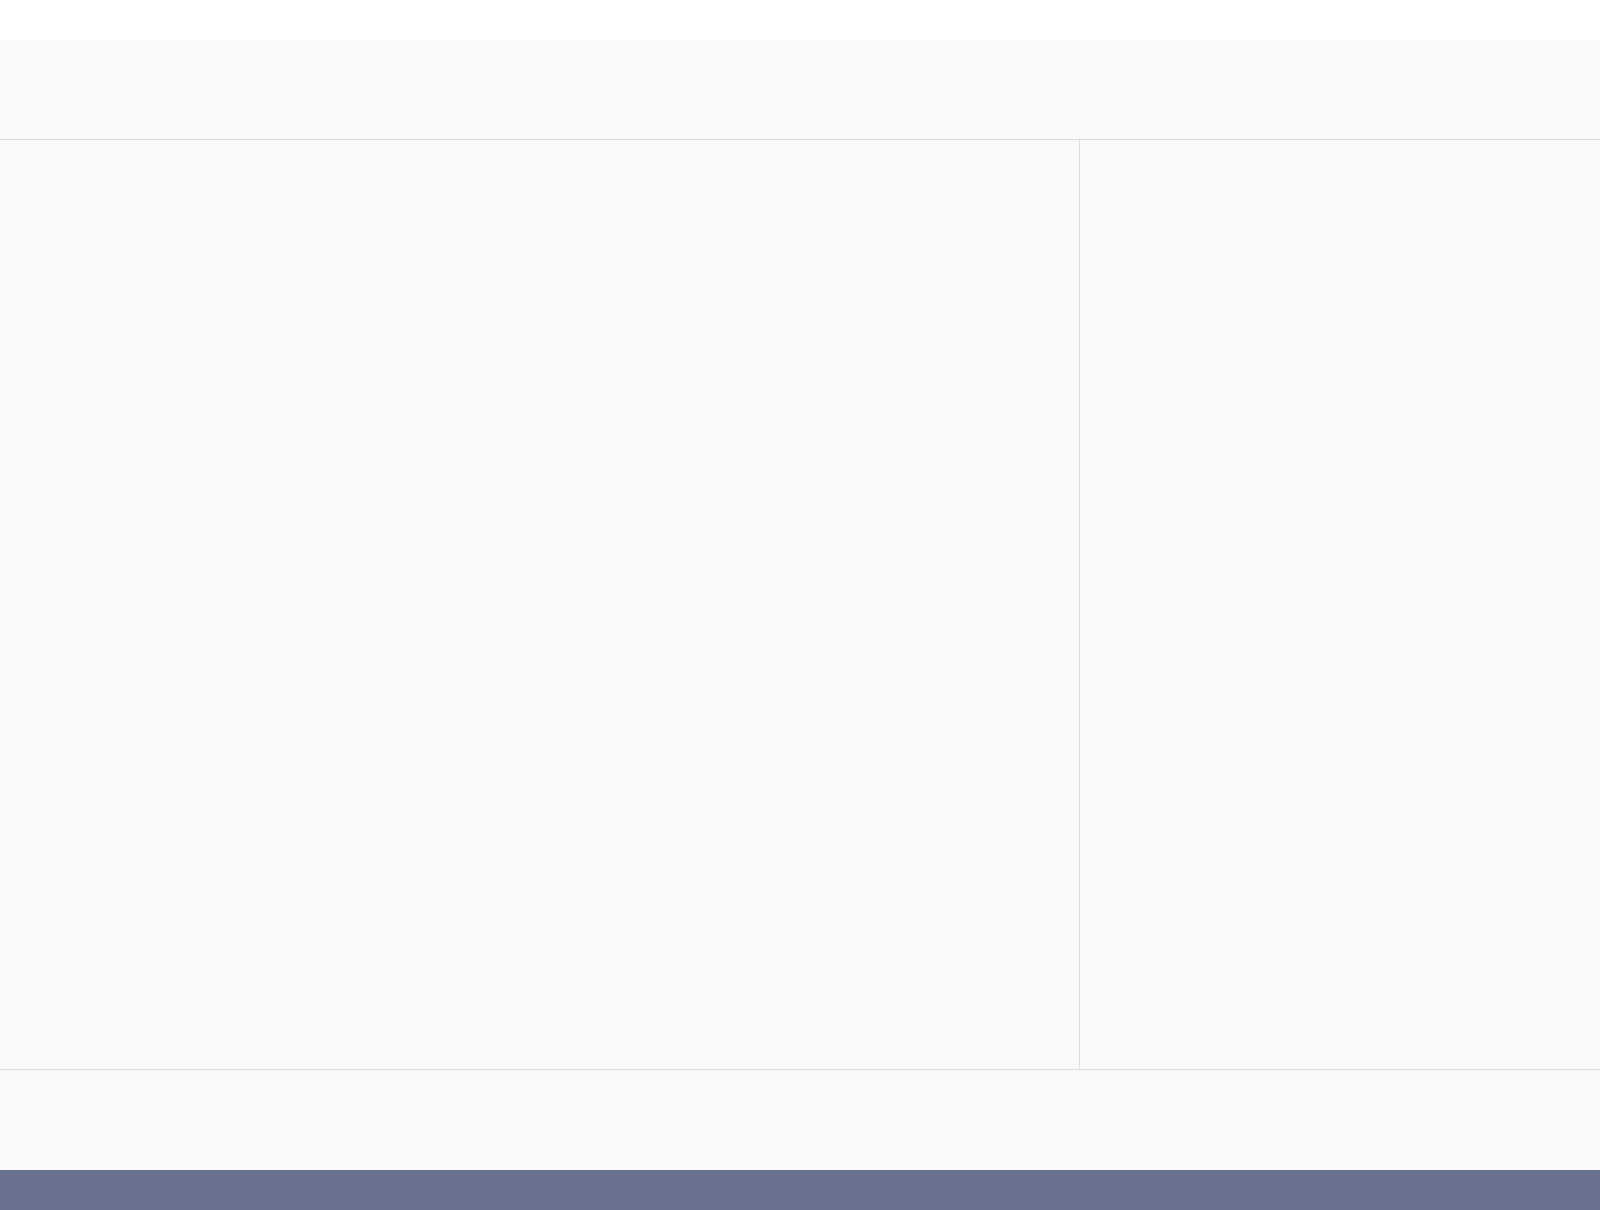
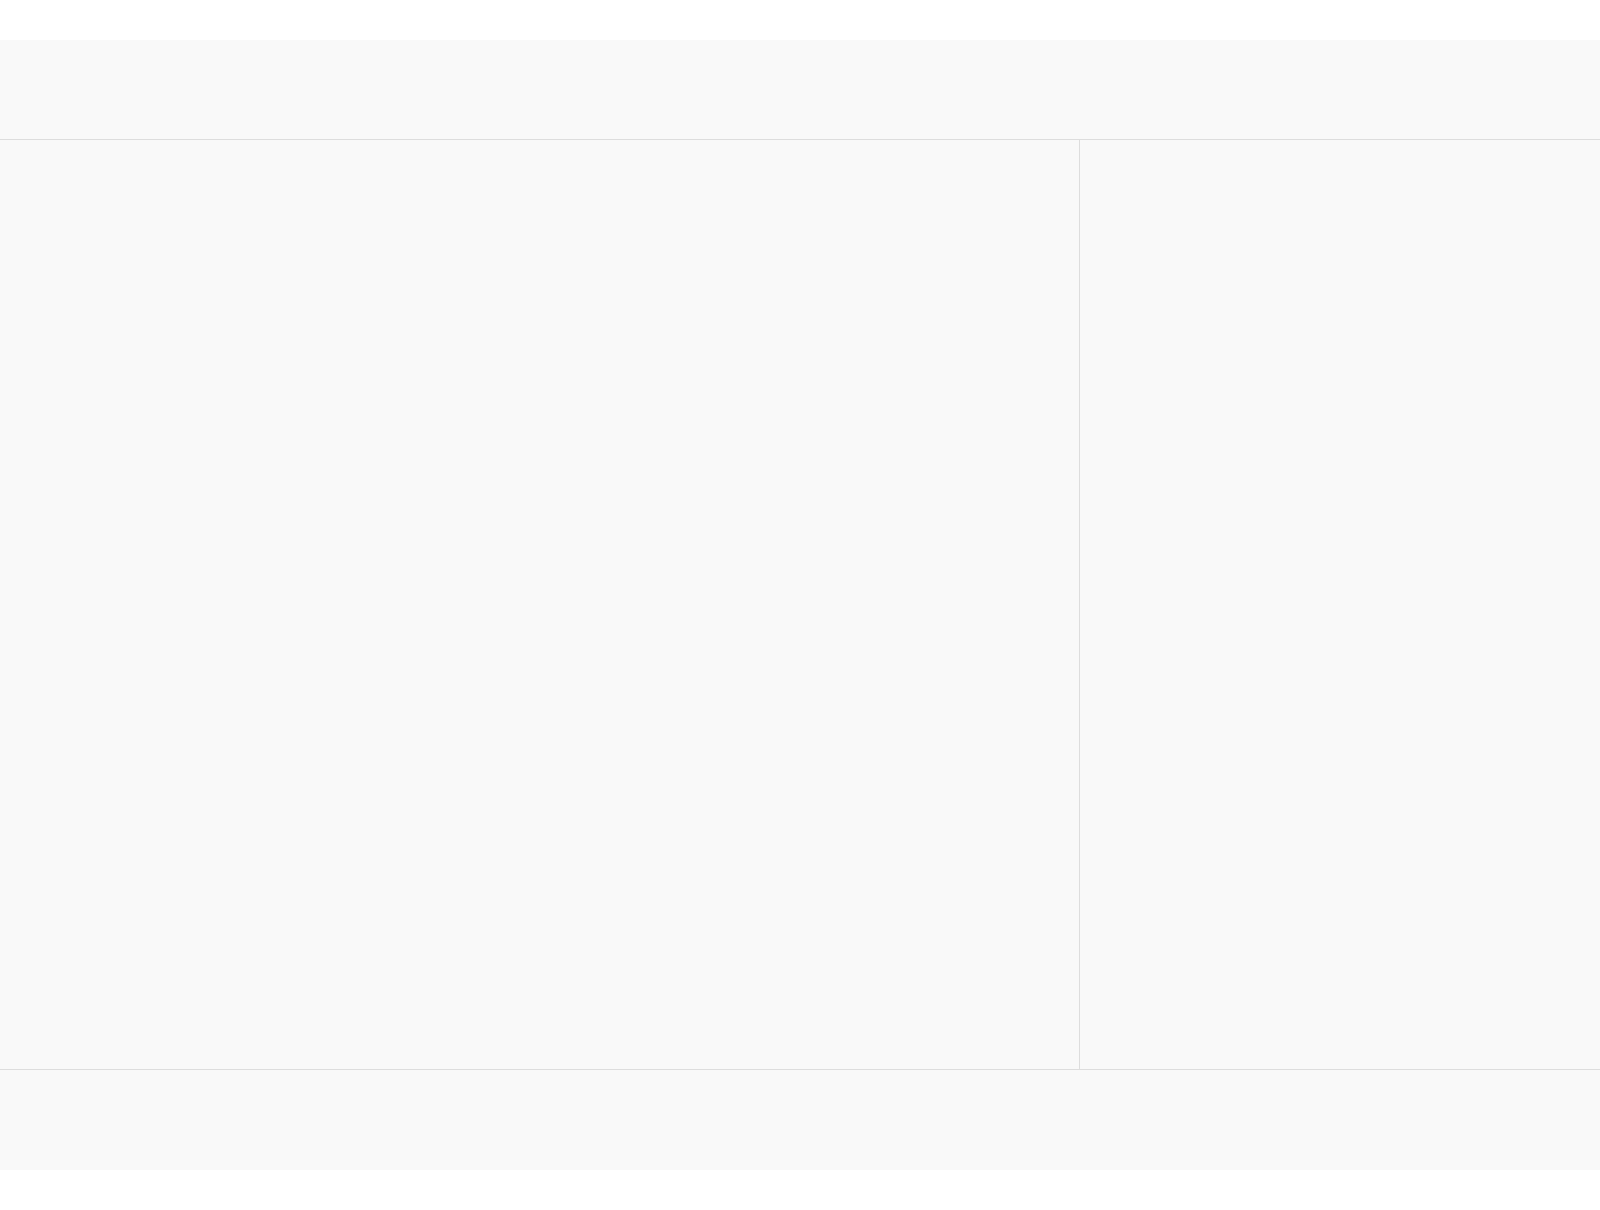
Add files via upload

Changed region(s): [[0.0, 0.9479, 1.0, 1.0]]

diff --git a/index.html b/index.html
@@ -67,7 +67,7 @@
         <!-- visual영역 -->
         <section class="visual" id="home">
             <div class="container">
-                <div class="motion_box">
+                <!-- <div class="motion_box"> -->
                     <img src="/images/object/object4.png" class="object4 motion3" alt="">
                     <img src="/images/object/object1.png" class="object1 motion4" alt="">
                     <img src="/images/object/object2.png" class="object2 motion5" alt="">
@@ -804,27 +804,16 @@
         <!-- 하단영역 -->
         <footer class="footer" id="contact">
             <div class="container">
-                <span class="f-main" data-aos="zoom-in">
-                    사용자가 <b>공감할 수 있는</b><br>
-                    브랜드의 <b>매력을 살려주는</b><br>
-                    디자인을 하고 싶습니다.<br><br>
-
-                    꾸준한 자기계발로 <b>끝없이 성장하는 디자이너</b>가 되겠습니다.
-                </span>
-                <!-- <ul class="f-cont" data-aos="zoom-in">
-                    <li>
-                        <a href="https://github.com/dlwlgh324" target="_blank">
-                            <img src="images/foot-1.png" alt="아이콘">
-                            <p class="f-cont-name">git</p>
-                        </a>
-                    </li>
-                    <li>
-                        <a href="work/pdf/pdf_port.pdf" target="_blank">
-                            <img src="images/foot-3.png" alt="아이콘">
-                            <p class="f-cont-name">portfolio</p>
-                        </a>
-                    </li>
-                </ul> -->
+                <div class="motion_box">
+                    <img src="/images/object/object12.png" class="object12 motion2" alt="">
+                    <img src="/images/object/object13.png" class="object13 motion3" alt="">
+                    <img src="/images/object/object10.png" class="object10 motion4" alt="">
+                    <img src="/images/object/object11.png" class="object11 motion5" alt="">
+                    <img src="/images/object/object15.png" class="object15 motion4" alt="">
+                    <img src="/images/object/object14.png" class="object14 motion1" alt="">
+                    <img src="/images/object/object16.png" class="object16 motion2" alt="">
+                    <img src="/images/object/object17.png" class="object17 motion4" alt="">
+                </div>
                 <p class="copy">
                     Copyrightⓒ2023 by Lee Jiho. All Page content is property of Lee Jiho
                 </p>
